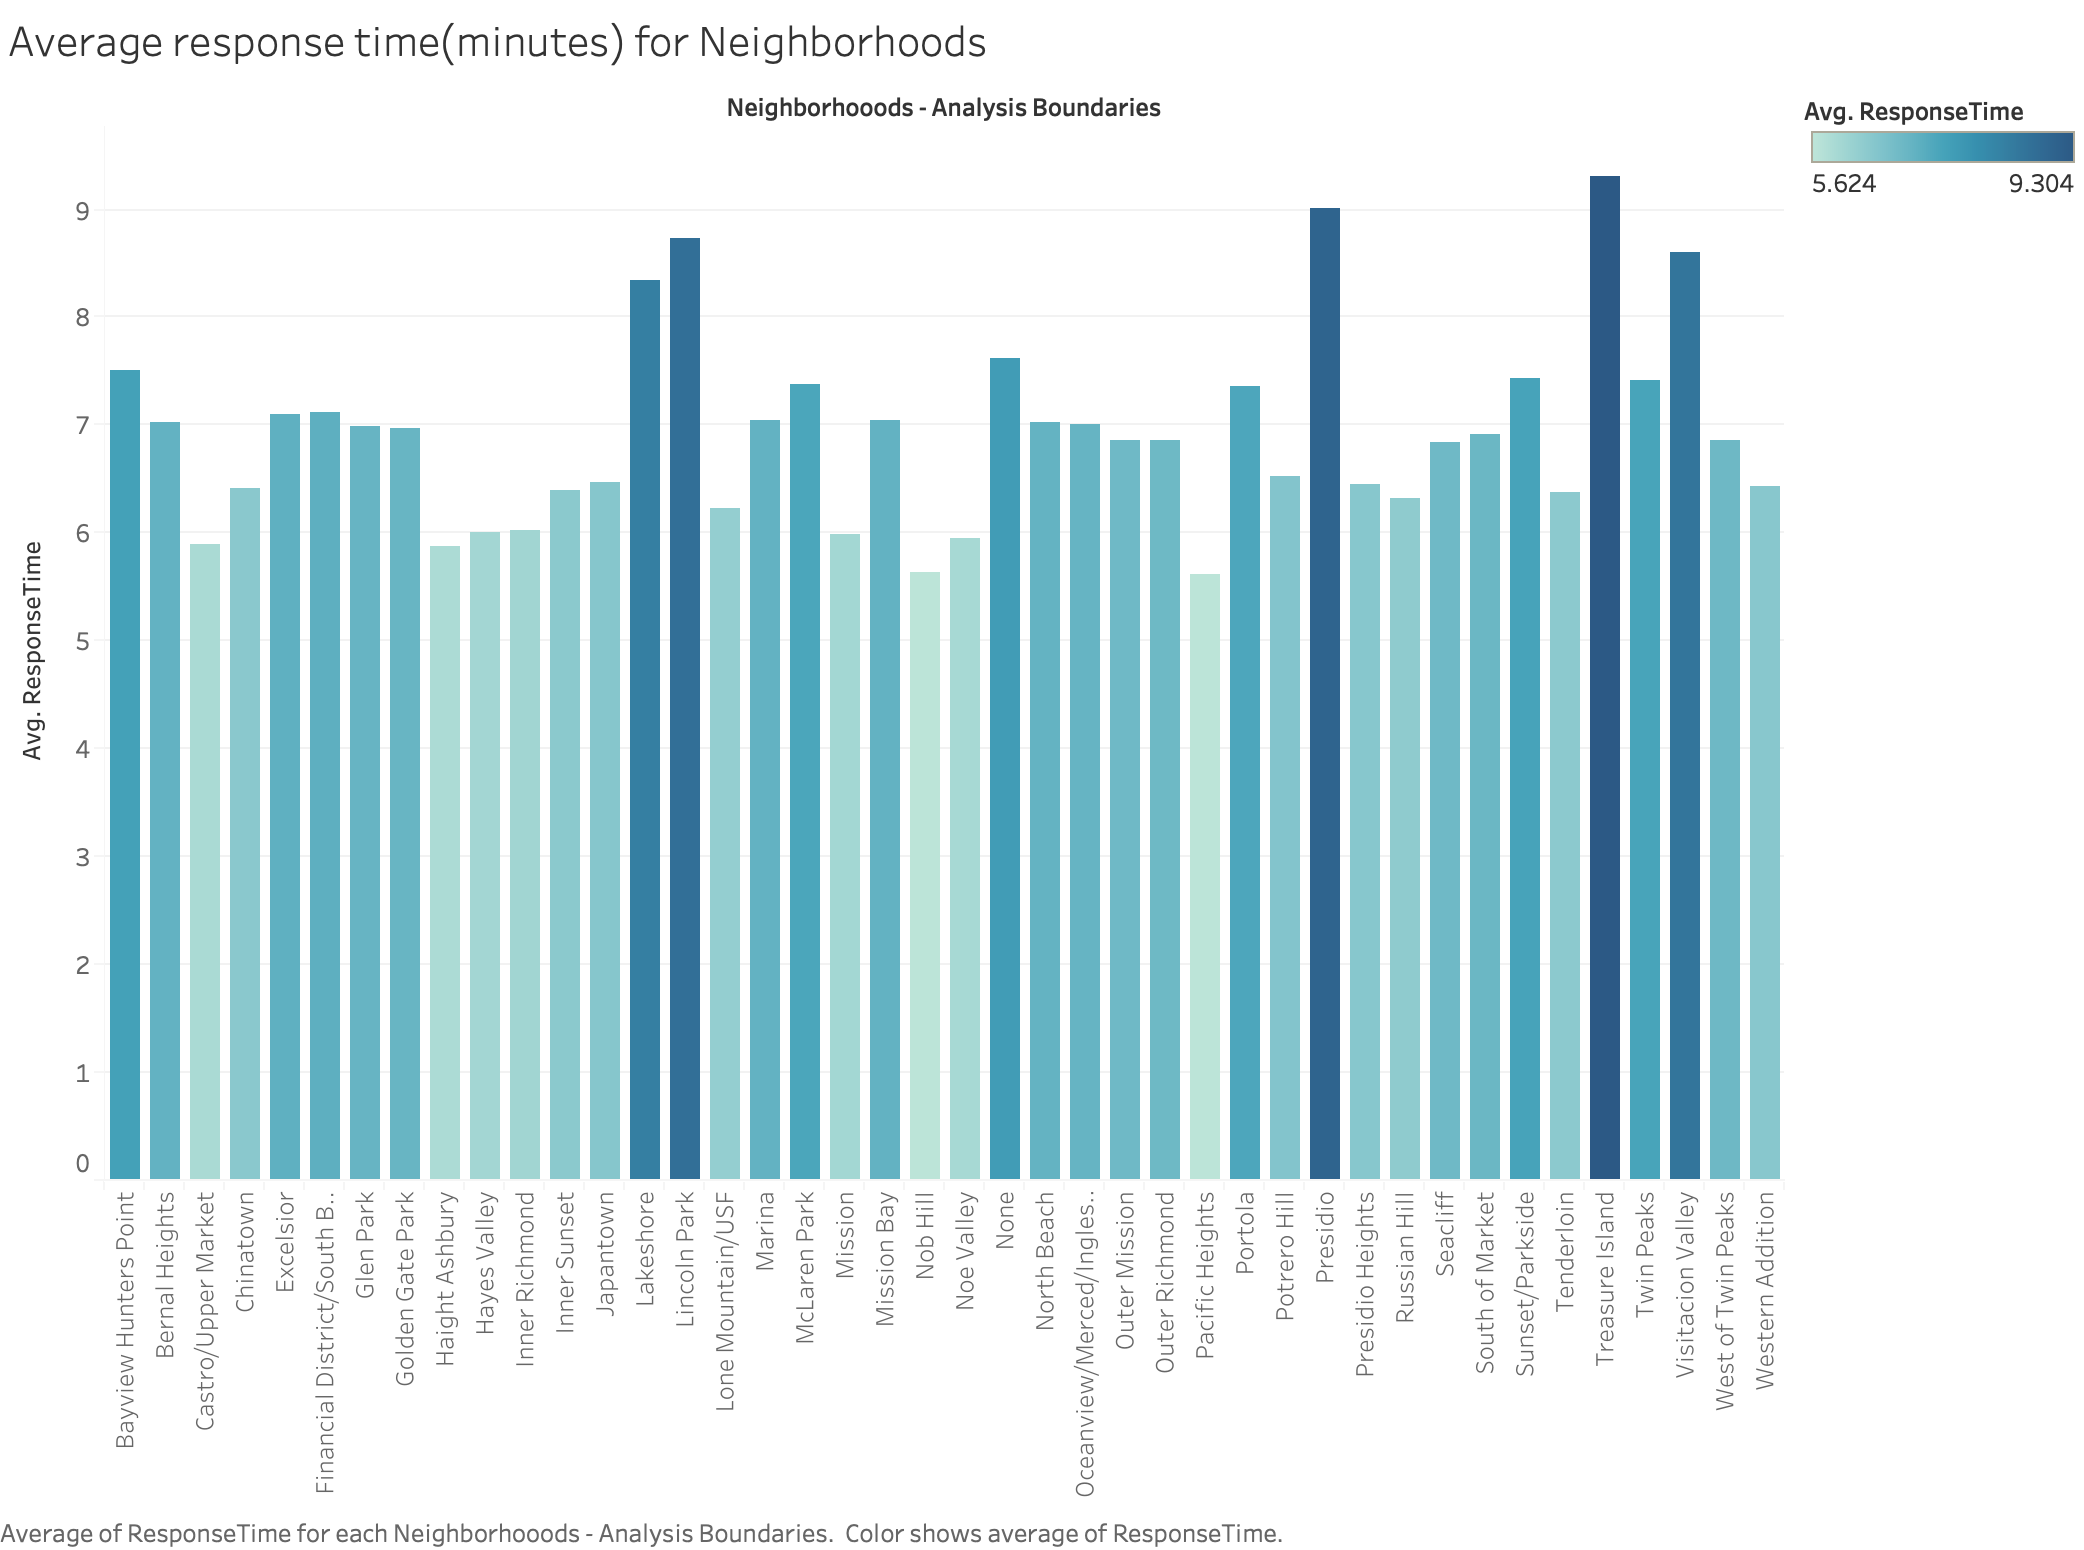
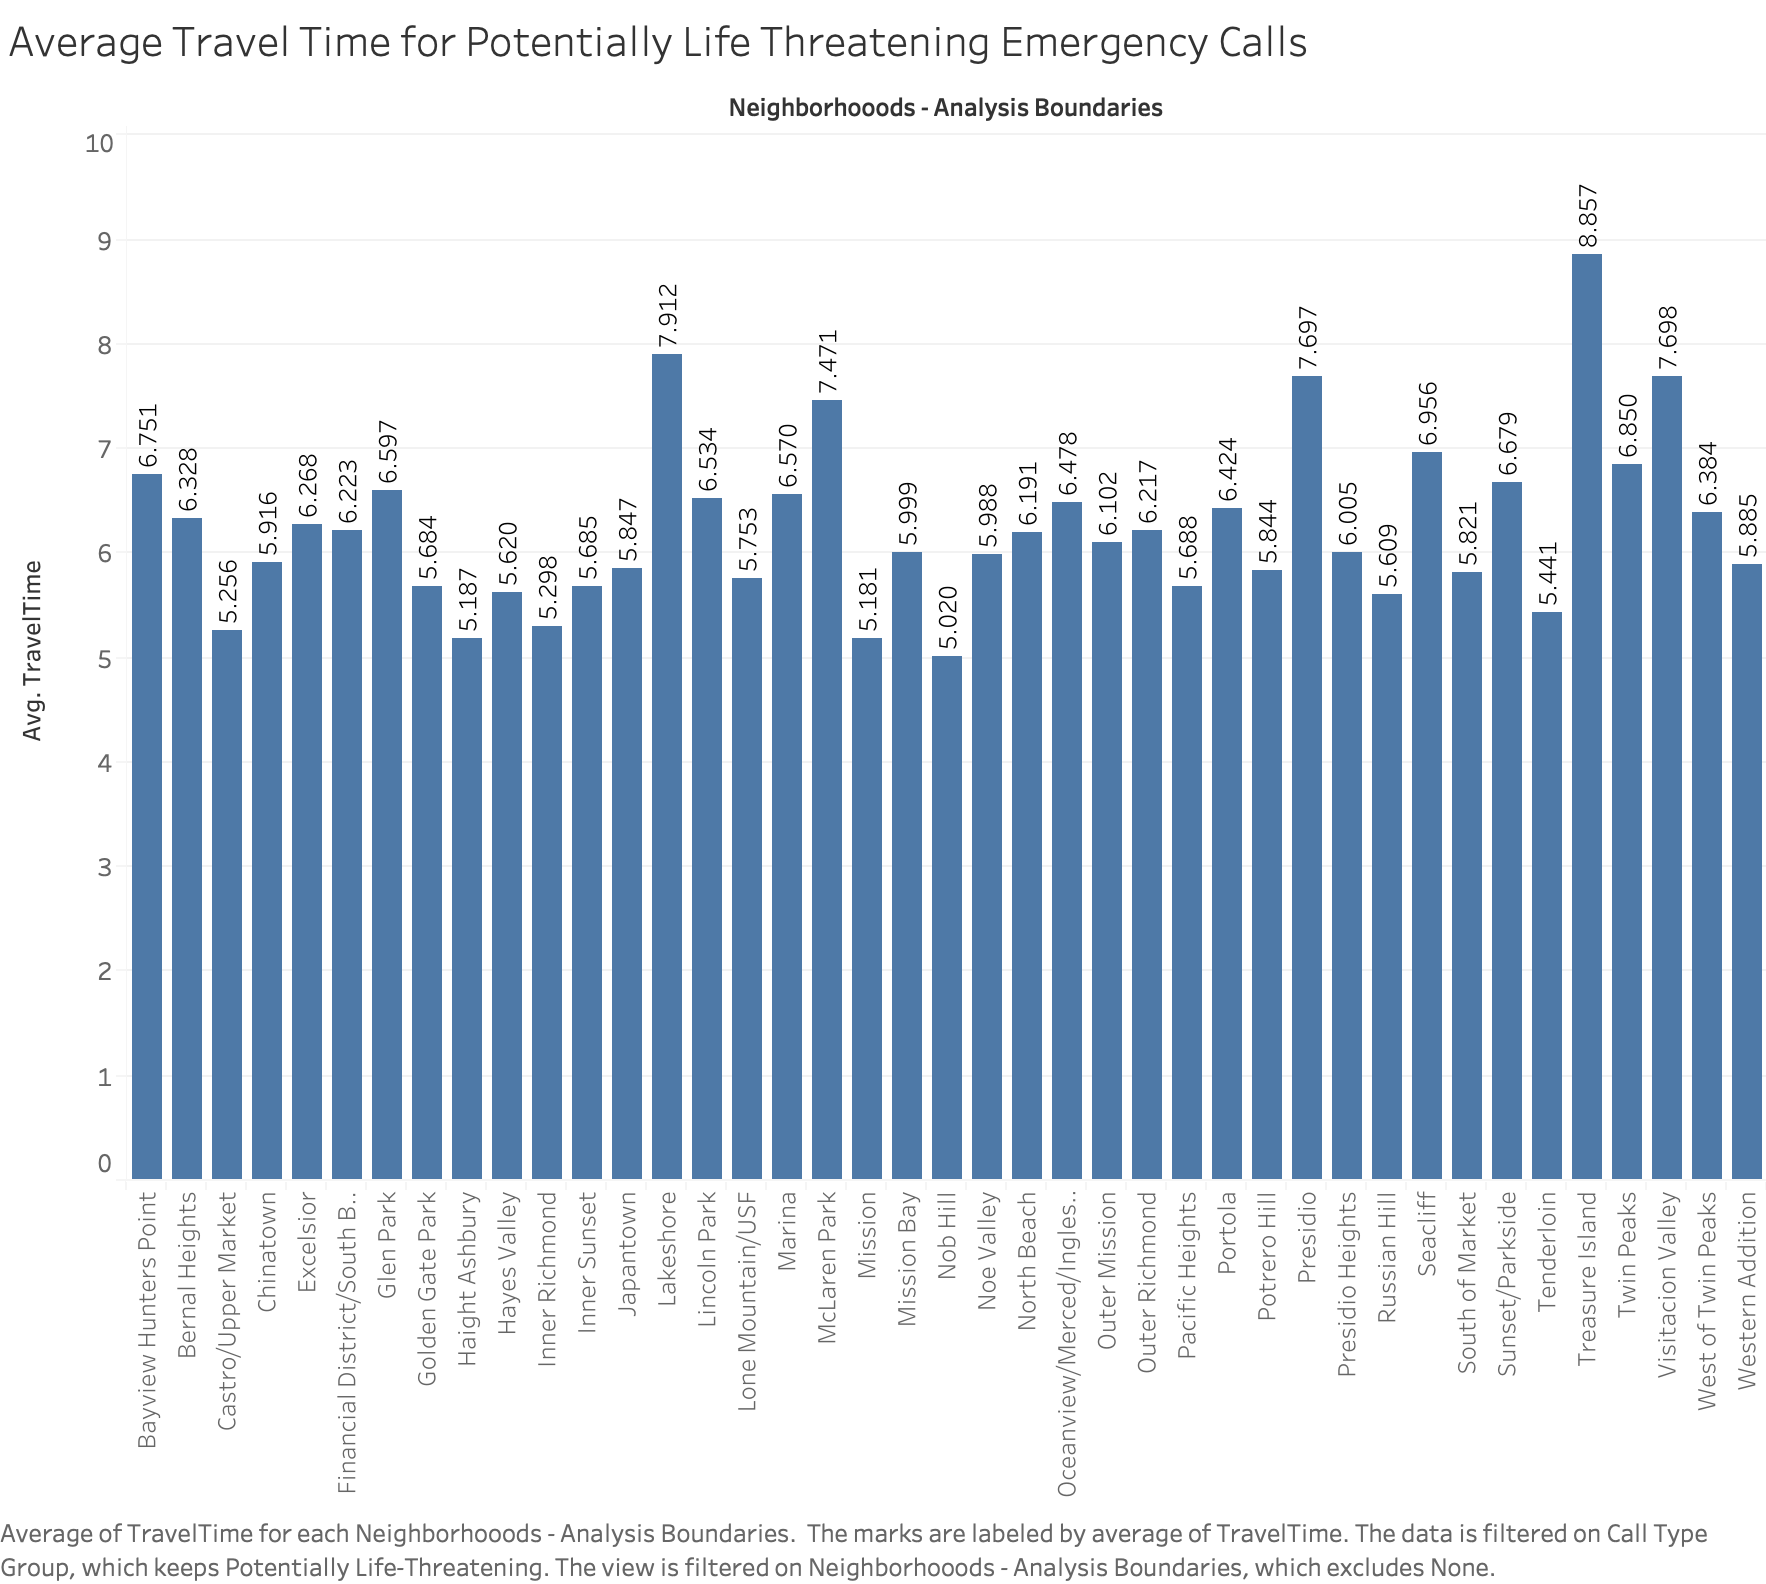
Committing the changes in data processing, prototypes and the  visualization credits

diff --git a/Visualizations/Divya/vis.html b/Visualizations/Divya/vis.html
@@ -236,14 +236,14 @@
         The above stacked bar shows the number of emergency calls, made from San Francisco neighborhoods on th year 2018.
         Data for each neighborhood is grouped by call type groups which are mainly divided into four categories: Alarm, Fire, Non-Life threatening, Potentially life threatening.
         Mouse hover over each neighborhood's respective call type groups, gives the number of calls received for that group.
-        Also change the values in the dropdown menu to sort the bar chart. Data can be sorted by Alphabetical(Neighborhoods)-ascending and
+        Also change the values in the dropdown menu to sort the bar chart. Data can be sorted by Alphabetical (Neighborhoods)-ascending and
         Number of calls-descending.
       </p>
 
       <h3>Discussion</h3>
       <p>
         When the data is analyzed for each neighborhood, its shocking to see that most of the calls made to San Francisco fire department were
-        for potentially life threatening emergencies and the number of calls are pretty high.
+        for potentially life-threatening emergencies and the number of calls are pretty high.
         These calls need to be addressed with high priority and require to have less response time.
         The calls that are classified as 'Potentially Life threatening' are mainly medical emergencies.
       </br>
@@ -284,21 +284,22 @@
           modal.style.display = "none";
         }
       </script>
-      <h3>Credit</h3>
+      <h3>Credits</h3>
 
       <p>
         Data set:
       </br><a href="https://data.sfgov.org/Public-Safety/Fire-Department-Calls-for-Service/nuek-vuh3/data">Data SF</a>
       </br>Code References:
-    </br><a href="http://bl.ocks.org/KatiRG/5f168b5c884b1f9c36a5">KatiRG’s clickable stacked bar chart</a>
-    </br><a href="https://observablehq.com/@d3/sortable-bar-chart">Mike Bostock’s Sortable Bar Chart</a>
-    </br><a href="https://www.w3schools.com/howto/tryit.asp?filename=tryhow_css_modal_img">w3schools</a>
+      </br><a href="http://bl.ocks.org/KatiRG/5f168b5c884b1f9c36a5">KatiRG’s clickable stacked bar chart</a>
+      </br><a href="https://observablehq.com/@d3/sortable-bar-chart">Mike Bostock’s Sortable Bar Chart</a>
+      </br><a href="https://www.w3schools.com/howto/tryit.asp?filename=tryhow_css_modal_img">w3schools</a>
 
-  </br>Other Supporting Data References:
-    </br><a href="http://default.sfplanning.org/publications_reports/SF_NGBD_SocioEconomic_Profiles/2010-2014_ACS_Profile_Neighborhoods_v3AH.pdf">sfplanning.org</a>
-    </br><a href="https://lompocrecord.com/news/local/firefighters-respond-to-all-kinds-of-emergencies/article_56dfc084-3bf3-11e0-b939-001cc4c002e0.html">Lompoc Record</a>
-    </br><a href="https://patch.com/california/shermanoaks/how-fast-do-firefighters-respond-youll-soon-find-out">How Fast Do Firefighters Respond?</a>
-    </div>
+      </br>Other Supporting Data References:
+      </br><a href="http://default.sfplanning.org/publications_reports/SF_NGBD_SocioEconomic_Profiles/2010-2014_ACS_Profile_Neighborhoods_v3AH.pdf">sfplanning.org</a>
+      </br><a href="https://lompocrecord.com/news/local/firefighters-respond-to-all-kinds-of-emergencies/article_56dfc084-3bf3-11e0-b939-001cc4c002e0.html">Lompoc Record</a>
+      </br><a href="https://patch.com/california/shermanoaks/how-fast-do-firefighters-respond-youll-soon-find-out">How Fast Do Firefighters Respond?</a>
+      </p>
+      </div>
   </section>
 
   --<section class="section">
@@ -327,7 +328,7 @@
         </script>
       <h3>Interpretation</h3>
       <p>
-        The above bar graph shows the average travel time of SF Fire engines to each neighborhood, for potentially life threatening emergencies.
+        The above bar graph shows the average travel time of SF Fire engines to each neighborhood, for <b>Potentially life threatening emergencies</b>.
         Average travel time is calculated from the difference of 'Dispatch Time' and 'On scene Time'. Hover over the bars to see the exact value of travel time.
         The bars can be sorted using the options in the dropdown above. Bars can be sorted alphabetically-ascending and traveltime-descending.
       </p>
@@ -340,21 +341,59 @@
         were high in each neighborhood. These calls should be treated with high priority and should be
         addressed with less response time.
 
-      </br>Inorder to explore more about the response times to each neighborhood, I chose to calculate average travel time to each neighborhood.
-        Instead of considering the total response time, I chose travel time because response time can have dispatch call duration,turn out time
-        and travel. Among the above times, the most significant one is travel time.
+      Inorder to explore more about the response times to each neighborhood, I chose to calculate average travel time to each neighborhood.
+        Instead of considering the total response time, I chose travel time because response time is the addition of dispatch call duration,turn out time
+        and travel time. Among the above times, the most significant one is travel time.
       </br>
-        By analysing the graph, we can see that fortunately for most of the neighborhoods, the travel time is very less.
-        But still we see some outliers like Treasure island, Lakeshore.. with travel time as around 8 minutes.
+      </br>
+        By analyzing the graph, we can see that fortunately for most of the neighborhoods, the travel time is very less which is around 5 minutes.
+        From the articles mentioned in the credits, I came to a know  that  in a life-threatening medical emergency, first responders providing basic
+        and advanced life support and arrive first at the scene of the incident to treat the patient until an ambulance arrives to transport the patient to the hospital, if necessary.
+        The goal in 1710 (for career firefighters) is also states: 60 seconds to turn-out, 4 minutes for the first engine company to arrive,
+        and 8 minutes for the full first-alarm assignment for at least 90 percent of all fire calls.
+        But we see some outliers like Treasure island, Lakeshore, Visitacion valley, Presidio with travel time itself as around 7-9 minutes.
+        This can be due to various reasons like traffic, road conditions, or station location and traffic.
+        Refer to the pop up image below to see the different fire station locations in the city for a better understanding.
+        We can conclude that there is a need to improve response times in some areas of the city.
       </br>
 
       </p>
+      <img id="myImg2" src="City_FireStations.png"  style="width:100%;max-width:300px">
+      <div id="myModal2" class="modal">
+        <span class="close">&times;</span>
+        <img class="modal-content" id="img01">
+        <div id="caption"></div>
+      </div>
 
-      <h3>Credit</h3>
+      <script>
+        // Get the modal
+        var modal = document.getElementById('myModal');
 
-      <p>
-        Space to write.
-       </p>
+        // Get the image and insert it inside the modal - use its "alt" text as a caption
+        var img = document.getElementById('myImg2');
+        var modalImg = document.getElementById("img01");
+        var captionText = document.getElementById("caption");
+        img.onclick = function(){
+          modal.style.display = "block";
+          modalImg.src = this.src;
+          captionText.innerHTML = this.alt;
+        }
+
+        // Get the <span> element that closes the modal
+        var span = document.getElementsByClassName("close")[0];
+
+        // When the user clicks on <span> (x), close the modal
+        span.onclick = function() {
+          modal.style.display = "none";
+        }
+      </script>
+      <h3>Credits</h3>
+      Data set:
+    </br><a href="https://data.sfgov.org/Public-Safety/Fire-Department-Calls-for-Service/nuek-vuh3/data">Data SF</a>
+    </br>Other Supporting Data References:
+  </br><a href="https://sf-fire.org/">sf-fire.org</a>
+    </br><a href="https://sfgov.org/scorecards/public-safety/ambulance-response-life-treatening-emergencies">City performance score cards</a>
+    </br><a href="https://brucehensler.typepad.com/the-practical-fireman/2008/07/nfpa-1710-1720-and-response-time.html">NFPA 1710, 1720, and response time</a>
     </div>
   </section>
 
@@ -377,7 +416,7 @@
         <a href="https://www.usfca.edu/">University of San Franciscio</a>
       </small>
     </div>
-  </footer>
+  </footer>></a>
 
 <!-- end body and html -->
 </body>

diff --git a/dataprocessing.html b/dataprocessing.html
@@ -128,7 +128,9 @@
       <h3>Data Processing</h3>
       <p> The original dataset was filtered to grab only the data from the year of 2018. Then for Roger's first prototype, we applied a sum filter of 1700 to get rid of some of the call types. For his second prototype, he removed all medical incident call types.
       </p>
-      <p>Divya's first prototype grouped all the data based on the neighborhood with no filter beyond the year. Her second protoype required the creation of a new field which calculated the average response time of an area using the "Create Calulated Field" option in Tableau with the resultant value being the difference between on-scene time and dispatch time.
+      <p>Divya's first prototype grouped all the data based on the neighborhood with no filter beyond the year.
+        Her second protoype, she filtered data for each neighborhood for the call type group -'Potentially life threatening' using Excel.
+        She required the creation of a new field which calculated the average travel time of an area using the "Create Calulated Field" option in Tableau with the resultant value being the difference between on-scene time and dispatch time.
       </p>
       <p> Tracy's first prototype has no filter beyond the year and the neighborhood. Her second prototype uses a random subset of data (size of 2500 entries) from the whole 2018 dataset. <a href = "random.py">Click here to look at the script</a> </p>
 

diff --git a/prototypes.html b/prototypes.html
@@ -170,7 +170,10 @@
     <div class="container content">
       <!-- todo: modify as necessary (or move visualizations to separate pages) -->
       <h2>Divya's Prototypes</h2>
-      <div class="visualization1">
+      <img src="Visualizations/Divya/Prototype_1.png" alt="visualization1" style="height:650px;width:80%"/>
+
+
+      <!--<div class="visualization1">
         <div class ="viz">
           <div class='tableauPlaceholder' id='viz1551767806841' style='position: relative'>
          <noscript>
@@ -204,8 +207,10 @@
          vizElement.parentNode.insertBefore(scriptElement, vizElement);
          </script>
        </div>
-     </div>
-        <!--  <img src="Visualizations/Divya/Prototype_1.png" alt="visualization1" style="height:650px;width:80%"/>-->
+
+
+     </div>-->
+
           <h3>Interpretation</h3>
           <p>
               The graph shows the number of calls to SF fire department from different neighborhoods, categorised by CallTypeGroup.
@@ -214,7 +219,7 @@
           </p>
         </br>
 
-         <img src="Visualizations/Divya/Prototype2.png" alt="visualization1" style="height:650px;width:80%"/>
+      <img src="Visualizations/Divya/Prototype2.png" alt="visualization1" style="height:650px;width:80%"/>
 
        <h3>Interpretation</h3>
        <p>
